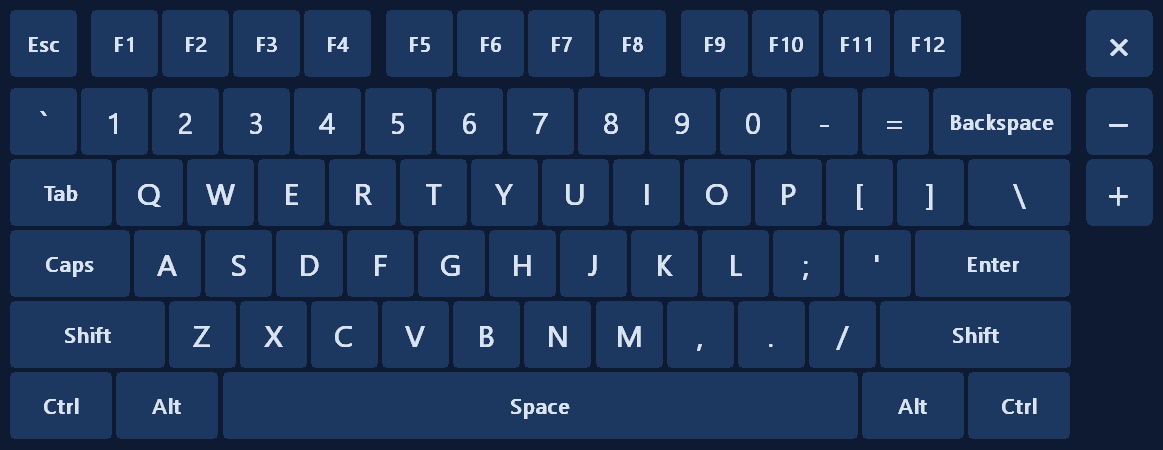
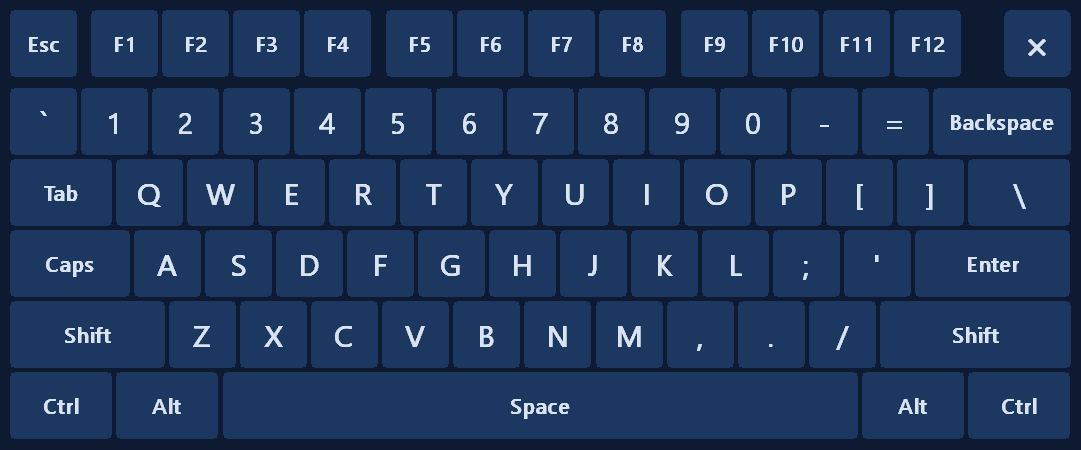
Compact keyboard: only x (above Backspace), no - / + column
The compact keyboard's size is set in the Panels tab, so its - / + and the column for them are gone; x sits in the free
top-row corner above Backspace. 1081 px wide (main block only, ~32 % narrower than full). Full keyboard unchanged.

Changed region(s): [[0.0, 0.0, 1.0, 0.9956], [0.4274, 0.8711, 0.519, 0.9333]]

diff --git a/src/vr_menu.cpp b/src/vr_menu.cpp
@@ -14,10 +14,10 @@ constexpr double kPi = 3.14159265358979;
 constexpr double kDeg = kPi / 180.0;
 constexpr int kMenuW = 1000, kMenuH = 800, kKbW = 1600, kKbH = 450;
 // keyboard: every gap between key groups is kGap of a key; the full keyboard is 22.3 x 6.1 key units in kKbW pixels; the
-// compact one (main block + a column for - / + / x) keeps the same key size, so it is narrower in pixels and in metres
+// compact one (the main block only, 15 key units) keeps the same key size, so it is narrower in pixels and in metres
 constexpr double kGap = 0.15;
 constexpr double kKbUnit = (kKbW - 16) / (23.0 - 2 * (0.5 - kGap));
-constexpr int kKbCompactW = (int)(16 + kKbUnit * (16.0 + kGap) + 0.5);
+constexpr int kKbCompactW = (int)(16 + kKbUnit * 15.0 + 0.5);
 
 // ---- the keyboard (units of one key; x 0..15 main block, 15.5..18.5 navigation, 19..23 number pad)
 struct KeyDef { const char* label; const char* name; float x, y, w, h; };
@@ -501,8 +501,8 @@ void VrMenu::LayoutKb() {
         e.kind = kind; e.arg = arg; e.x = x; e.y = y; e.w = w; e.h = h; e.text = t; e.on = on;
         el.push_back(e);
     };
-    // one flat block, no title bar: - / + / x sit in the empty space above the number pad (compact: in a column at the right
-    // edge, next to Enter); move it with the grip anywhere. Picking a key for a button: the whole keyboard gets an accent
+    // one flat block, no title bar: - / + / x sit in the empty space above the number pad (compact: only x, above Backspace;
+    // its size is set in the Panels tab); move it with the grip anywhere. Picking a key for a button: the whole keyboard gets an accent
     // frame (the menu's bar says which button). kKeys is a real keyboard's layout (gaps of 1 / 0.5 key between the groups);
     // here every gap between groups is only kGap of a key: still visible, less wasted room. 2 px of gap around each key.
     const bool compact = look_.kbCompact;
@@ -510,7 +510,7 @@ void VrMenu::LayoutKb() {
     auto mapX = [&](double kx, double ky) {
         if (kx >= 19) return kx - 1.0 + 2 * kGap;                       // number pad
         if (kx >= 15.5) return kx - 0.5 + kGap;                         // navigation / arrows
-        if (ky != 0 || kx >= 15) return kx;                             // (the compact column stays at 15 + kGap)
+        if (ky != 0 || kx >= 15) return kx;
         if (kx >= 11) return kx - 2.0 + 3 * kGap;                       // F9 .. F12
         if (kx >= 6.5) return kx - 1.5 + 2 * kGap;                      // F5 .. F8
         if (kx >= 2) return kx - 1.0 + kGap;                            // F1 .. F4
@@ -520,10 +520,8 @@ void VrMenu::LayoutKb() {
         const double ux = mapX(kx, ky), uy = ky >= 1 ? ky - (0.25 - kGap * 2.0 / 3.0) : ky;   // F-row gap 0.1 of a key
         add(kind, arg, (int)(x0 + ux * u + 2), (int)(y0 + uy * u + 2), (int)(kw * u - 4), (int)(kh * u - 4), t, on);
     };
-    if (compact) {                                       // x on top, then - and + (the column right of the main block)
-        at(eClose, 0, 15 + kGap, 0, 1, 1, "\xC3\x97");
-        at(eSmaller, 0, 15 + kGap, 1.25, 1, 1, "\xE2\x88\x92");
-        at(eBigger, 0, 15 + kGap, 2.25, 1, 1, "+");
+    if (compact) {                                       // only x, in the free top-row corner above Backspace (no - / +:
+        add(eClose, 0, (int)(x0 + 14 * u + 2), (int)(y0 + 2), (int)(u - 4), (int)(u - 4), "\xC3\x97");   //   Panels tab)
     } else {
         at(eSmaller, 0, 19, 0, 1, 1, "\xE2\x88\x92");
         at(eBigger, 0, 20, 0, 1, 1, "+");

diff --git a/tests/vr_menu_test.cpp b/tests/vr_menu_test.cpp
@@ -329,14 +329,16 @@ int main(int argc, char** argv) {
         CHECK(kb.pw < pw0 * 0.75 && std::fabs(kb.width / kb.pw - wk / pw0) < 1e-9, "compact: narrower, same key size (%d px, %.3f m)", kb.pw, kb.width);
         CHECK(!m.ElemCentre(VrMenu::kPanKb, VrMenu::eKey, VrMenu::KeyIndex("home"), &at) &&
               !m.ElemCentre(VrMenu::kPanKb, VrMenu::eKey, VrMenu::KeyIndex("num5"), &at), "compact: no navigation / number pad");
-        V3 x, mi, pl, en;
-        CHECK(m.ElemCentre(VrMenu::kPanKb, VrMenu::eClose, 0, &x) && m.ElemCentre(VrMenu::kPanKb, VrMenu::eSmaller, 0, &mi) &&
-              m.ElemCentre(VrMenu::kPanKb, VrMenu::eBigger, 0, &pl) && m.ElemCentre(VrMenu::kPanKb, VrMenu::eKey, VrMenu::KeyIndex("enter"), &en),
-              "compact: x / - / + and Enter there");
+        V3 x, bs, f12, tmp;
+        CHECK(m.ElemCentre(VrMenu::kPanKb, VrMenu::eClose, 0, &x) && m.ElemCentre(VrMenu::kPanKb, VrMenu::eKey, VrMenu::KeyIndex("backspace"), &bs) &&
+              m.ElemCentre(VrMenu::kPanKb, VrMenu::eKey, VrMenu::KeyIndex("f12"), &f12), "compact: x, Backspace, F12 there");
+        CHECK(!m.ElemCentre(VrMenu::kPanKb, VrMenu::eSmaller, 0, &tmp) && !m.ElemCentre(VrMenu::kPanKb, VrMenu::eBigger, 0, &tmp),
+              "compact: no - / + (the Panels tab sets its size)");
         const Q4 iq = QConj(kb.pose.q);
-        const V3 lx = QRot(iq, x - kb.pose.p), lm = QRot(iq, mi - kb.pose.p), lp = QRot(iq, pl - kb.pose.p), le = QRot(iq, en - kb.pose.p);
-        CHECK(std::fabs(lx.x - lm.x) < 1e-6 && std::fabs(lm.x - lp.x) < 1e-6 && lx.y > lm.y && lm.y > lp.y && lx.x > le.x,
-              "compact: x, -, + in one column (top down) right of Enter");
+        const V3 lx = QRot(iq, x - kb.pose.p), lb = QRot(iq, bs - kb.pose.p), lf = QRot(iq, f12 - kb.pose.p);
+        const double keyM = kb.width / kb.pw * ((1600 - 16) / 22.3);   // one key (vr_menu.cpp kKbUnit) in metres
+        CHECK(lx.y > lb.y && std::fabs(lx.y - lf.y) < 1e-6 && lx.x > lb.x && lx.x - lb.x < keyM && lx.x > lf.x + keyM,
+              "compact: x in the top row, above the right half of Backspace, right of F12");
         CHECK(m.ElemCentre(VrMenu::kPanKb, VrMenu::eKey, VrMenu::KeyIndex("f5"), &at), "compact: F-keys there");
         WriteBmp(dir + L"\\keyboard_compact.bmp", kb);
         CHECK(click(1, VrMenu::kPanMenu, VrMenu::eSet, 82), "Full shown");

diff --git a/src/vr_menu.h b/src/vr_menu.h
@@ -10,7 +10,7 @@
 //     mouse button / none from the bar), Mouse (stick mouse, air mouse hold / toggle, speeds), Panels (sizes, bring here).
 //   * Keyboard panel: a full-size keyboard (main block, F-keys, arrows / navigation, number pad) as one flat block (no title
 //     bar: its - / + / x are above the number pad), or COMPACT (Panels tab / keyboard_layout): the main block only (Esc /
-//     F-keys down to Enter, Shift, Ctrl) with - / + / x in one column at its right edge. Switching keeps the key size (the
+//     F-keys down to Enter, Shift, Ctrl) with only its x, above Backspace (its size: Panels tab). Switching keeps the key size (the
 //     panel's width in metres follows its pixel width). A key goes down on the
 //     trigger and up when it is let go. Shift / Ctrl / Alt latch: they go with the next key. While a button is being set, the
 //     keyboard picks its key instead (with the latched modifiers: shift+f).

diff --git a/README.md b/README.md
@@ -68,7 +68,7 @@ VR EyeCapture starts a recording on that.
   you pull the trigger and up when you let go. Shift, Ctrl and Alt stay on for the next key.
   The keyboard **stays** when the menu closes, also at the next game start (put it at the side of your cab). Its x hides it.
   **Full or Compact** (Panels tab): Compact has only the main keys (Esc / F-keys down to Enter, Shift, Ctrl), with its
-  - / + / x in a column next to Enter: about 30 % narrower.
+  only an x (above Backspace) to hide it: about 30 % narrower. Its size: Panels tab > Keyboard size.
 - **Move** a panel: point at it, **hold the grip** and move the controller. While you hold it, push that controller's stick
   up / down to move it farther / closer. **Size**: the - and + at the top.
 
